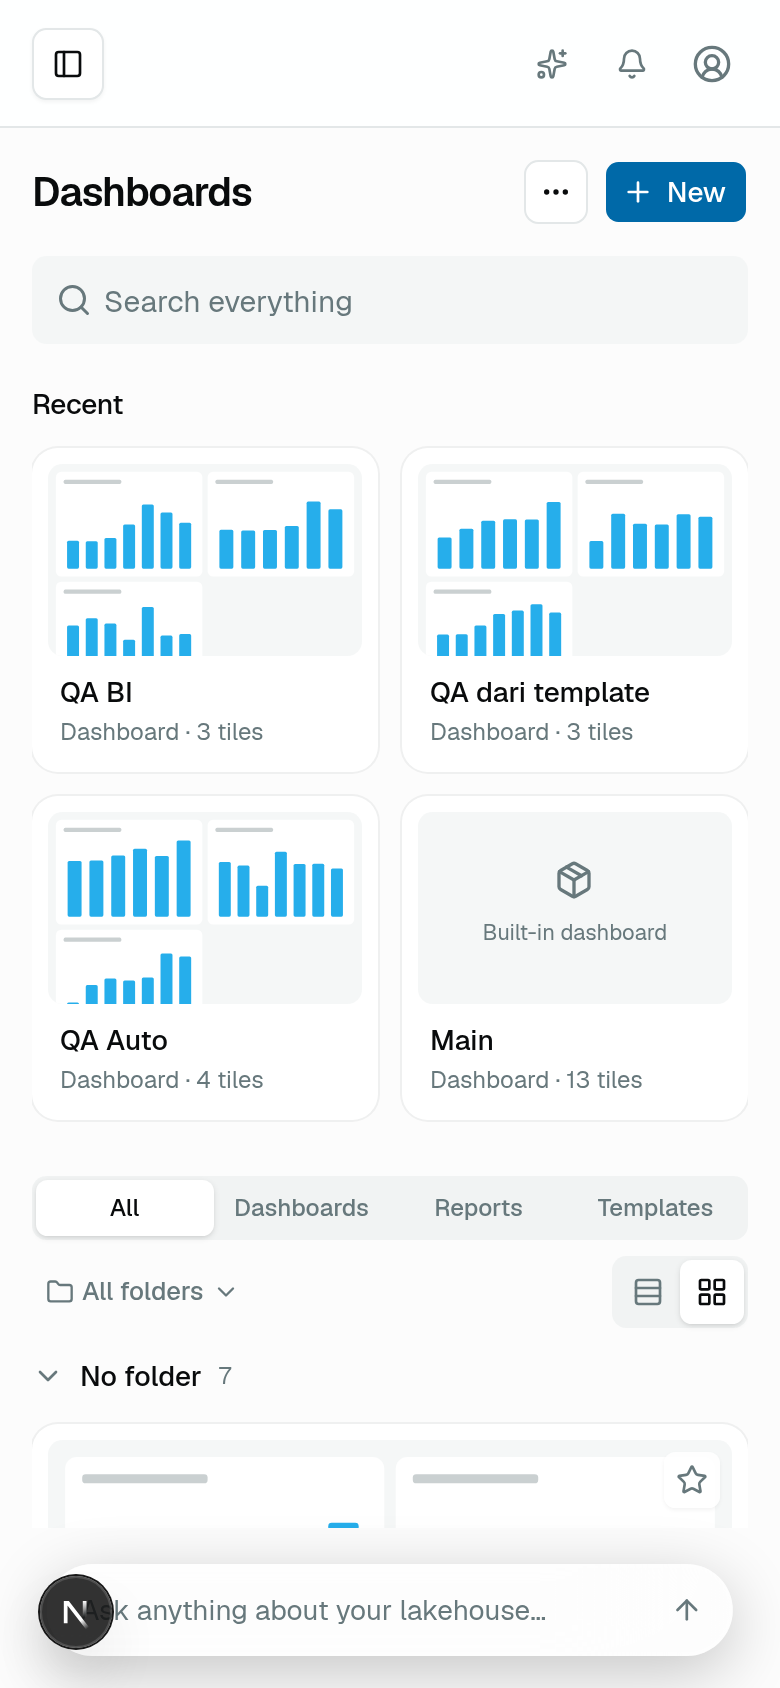
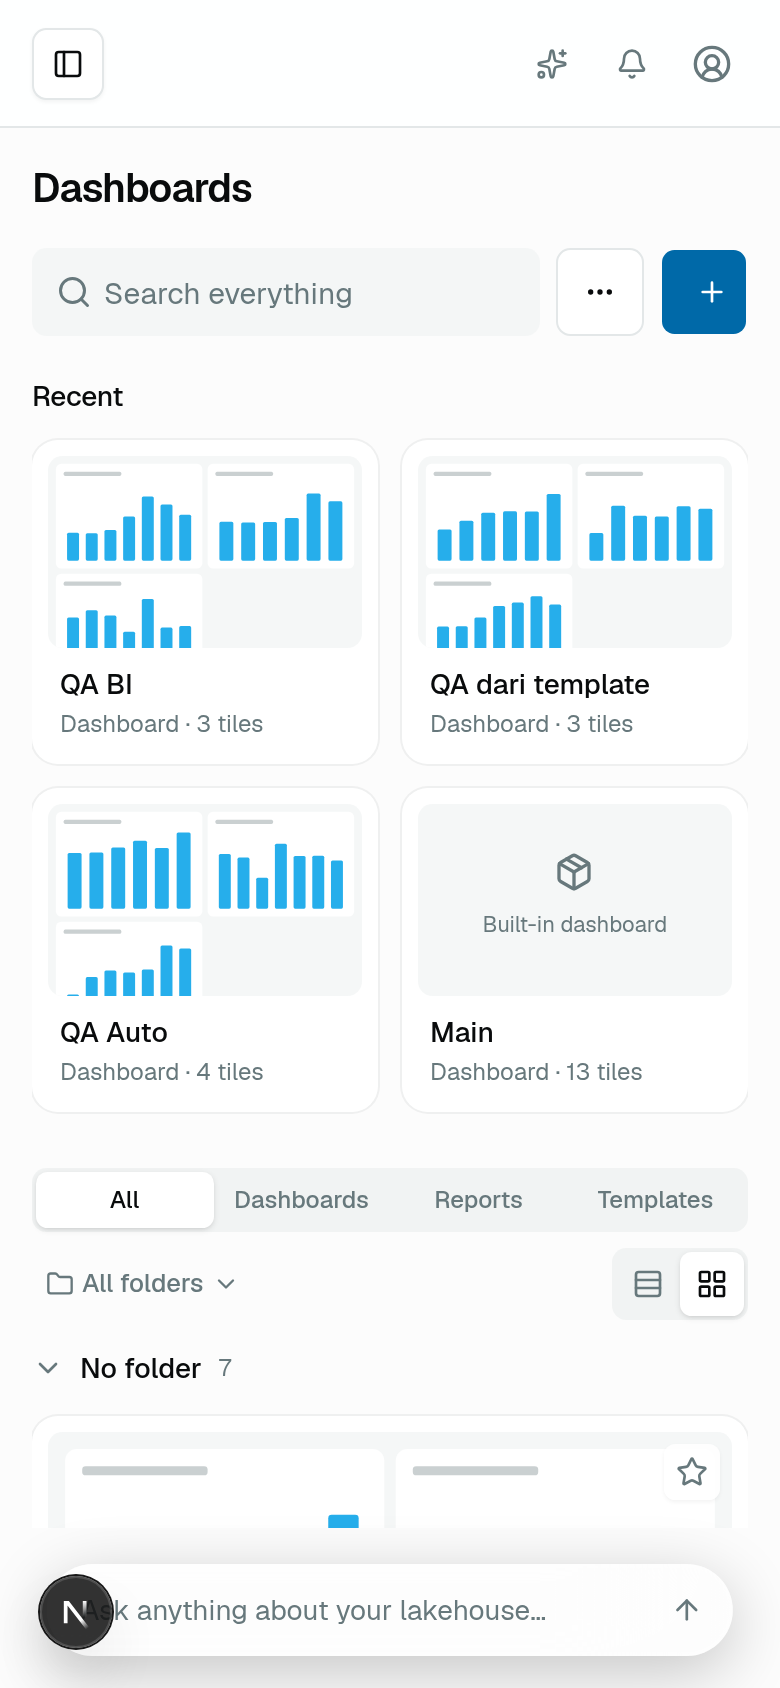
fix(dashboards): BI-59 review round 1: search and page actions on one row; frame reads the shell's reserve
BI-59 review round 1, SHOULD-FIX 1 (owner QA; DESIGN.md §3 "Pencarian dan
aksi halaman satu baris"): the title stands alone, and under it one row
holds the search (the remaining width), the Table / Gallery switch, the
page ⋯ and + New, all 44 px tall and centred. On a phone the row is the
search, the ⋯ and an icon-only New ("New" kept for screen readers), and
the view switch stays in the filters row. Measured in Chrome: at 1366x900
the search, the switch, the ⋯ and New all sit at top 132 px, 44 px tall;
at 390x844 at 124 px.

BI-59 review round 1, SHOULD-FIX 2: PageFrame reads the app shell's
`--content-bottom` (the token BI-58 adds in c4d87211 / 50295df6), with
today's reserve as the fallback, so the page follows the composer's real
room once both merge. No BI-58 code copied. The 12 Table and Gallery
screenshots are retaken.

Checks: bun test dashboard-list-page, template-pages, library-item-menu
(37 pass) under the 3 GB cap; eslint on src/features/dashboards; bun run
typecheck.

diff --git a/src/features/dashboards/dashboard-list-page.tsx b/src/features/dashboards/dashboard-list-page.tsx
@@ -105,13 +105,18 @@ function useViewMode(): readonly [ViewMode, (next: ViewMode) => void] {
 }
 
 /** The Table / Gallery switch: two icon buttons with `aria-pressed`, in one soft group like the type filter. */
-function ViewSwitch({ value, onChange }: { readonly value: ViewMode; readonly onChange: (next: ViewMode) => void }) {
+function ViewSwitch({ value, onChange, tall }: {
+  readonly value: ViewMode
+  readonly onChange: (next: ViewMode) => void
+  /** In the search row: as tall as the search (BI-59 review round 1, SHOULD-FIX 1). */
+  readonly tall?: boolean
+}) {
   const options = [
     { value: "table" as const, label: "Table view", icon: Rows3 },
     { value: "gallery" as const, label: "Gallery view", icon: LayoutGrid },
   ]
   return (
-    <div role="group" aria-label="View" className="inline-flex rounded-lg bg-muted p-0.5">
+    <div role="group" aria-label="View" className={cn("inline-flex shrink-0 rounded-lg bg-muted p-0.5", tall && "h-11")}>
       {options.map((o) => {
         const on = o.value === value
         return (
@@ -123,7 +128,8 @@ function ViewSwitch({ value, onChange }: { readonly value: ViewMode; readonly on
             title={o.label}
             onClick={() => onChange(o.value)}
             className={cn(
-              "grid size-8 place-items-center rounded-md",
+              "grid place-items-center rounded-md",
+              tall ? "size-10" : "size-8",
               EASE, FOCUS,
               on ? "bg-background text-foreground shadow-sm dark:bg-input/40" : "text-muted-foreground hover:text-foreground",
             )}
@@ -452,29 +458,35 @@ export function DashboardListPage() {
 
   return (
     <PageFrame>
+      {/*
+        BI-59 review round 1, SHOULD-FIX 1 (owner QA; DESIGN.md §3 "Pencarian dan aksi halaman
+        satu baris"): the title alone, then one row with the search taking the width on the left
+        and the page's actions on the right, all 44 px tall and centred. From sm the Table /
+        Gallery switch joins them; on a phone it stays in the filters row so the search keeps
+        its room, and New is the plus alone.
+      */}
       <header className="grid shrink-0 gap-4">
-        <div className="flex items-center justify-between gap-3">
-          <h1 className="text-xl font-semibold tracking-tight">Dashboards</h1>
-          <div className="flex items-center gap-2">
-            <PageMenu
-              onFolders={canFile ? () => setFoldersOpen(true) : undefined}
-              onTrash={canFile ? () => setTrashOpen(true) : undefined}
+        <h1 className="text-xl font-semibold tracking-tight">Dashboards</h1>
+        <div className="flex items-center gap-2">
+          <SearchField value={query} onChange={setQuery} className="min-w-0 flex-1" />
+          {phone ? null : <ViewSwitch value={view} onChange={setView} tall />}
+          <PageMenu
+            onFolders={canFile ? () => setFoldersOpen(true) : undefined}
+            onTrash={canFile ? () => setTrashOpen(true) : undefined}
+          />
+          {/* BI-18 part C review fix (SHOULD-FIX) R27: without `dashboard:write` there is no New. */}
+          {canFile ? (
+            <NewMenu
+              templates={templates}
+              renderPicture={(t) => (
+                <ItemPicture item={templateItem(t)} charts={null} size="sm" className="h-10 w-16 shrink-0" />
+              )}
+              onDashboard={() => setCreateOpen(true)}
+              onTemplate={setUsing}
+              onImport={() => setImportOpen(true)}
             />
-            {/* BI-18 part C review fix (SHOULD-FIX) R27: without `dashboard:write` there is no New. */}
-            {canFile ? (
-              <NewMenu
-                templates={templates}
-                renderPicture={(t) => (
-                  <ItemPicture item={templateItem(t)} charts={null} size="sm" className="h-10 w-16 shrink-0" />
-                )}
-                onDashboard={() => setCreateOpen(true)}
-                onTemplate={setUsing}
-                onImport={() => setImportOpen(true)}
-              />
-            ) : null}
-          </div>
+          ) : null}
         </div>
-        <SearchField value={query} onChange={setQuery} className="max-w-2xl" />
       </header>
 
       <ScrollRegion className="-mx-2 mt-5 px-2 pb-6">
@@ -506,7 +518,7 @@ export function DashboardListPage() {
                       choices={folderChoicesList}
                       noFolderCount={items.filter((i) => i.kind !== "template" && !i.folderId).length}
                     />
-                    <ViewSwitch value={view} onChange={setView} />
+                    {phone ? <ViewSwitch value={view} onChange={setView} /> : null}
                   </div>
                 </>
               )}

diff --git a/src/features/dashboards/library-parts.tsx b/src/features/dashboards/library-parts.tsx
@@ -35,16 +35,24 @@ export function useHasDock(): boolean {
 /**
  * The page as a frame that ends above the assistant bar, so the bar never
  * covers a row or a card (spec `BI-59` T5): the list scrolls inside the frame
- * instead of under the bar.
+ * instead of under the bar. Its height is the viewport less the navbar (4rem),
+ * the shell's top padding (1, 1.25 or 1.5rem) and the room kept under the
+ * content.
  *
- * With the bar, the height leaves the navbar (4rem), the shell's top padding
- * (1, 1.25 or 1.5rem) and 5rem for the bar, and the negative bottom margin
- * gives back the bottom padding the app frame adds for the bar (`pb-24` /
- * `lg:pb-28`), so the window itself does not scroll. Without the bar the
- * frame is the viewport less the navbar and the shell's own padding.
+ * BI-59 review round 1, SHOULD-FIX 2: that room is read from the app shell's
+ * `--content-bottom`, the token BI-58 adds (`c4d87211`, `50295df6`: the
+ * composer's measured height plus its offset and gap while it shows, 1.5rem
+ * when it hides). Until that lands the variable is absent and the fallbacks
+ * are today's shell: with the bar, a 5rem dock spacer after `main` and a
+ * `pb-24` / `lg:pb-28` bottom padding that the negative margin gives back;
+ * without it, the shell's own bottom padding. With the token the frame's height
+ * alone puts its end where the shell says; the margin there works out at
+ * `--content-bottom - 6rem` (or `- 7rem`) against a `main` that pads by
+ * `--content-bottom`, which only shortens `main`'s box below the frame and
+ * moves nothing on screen. It goes when this branch has the token.
  *
  * Below `lg` the whole frame scrolls, header included, so a phone keeps the
- * room for the rows; from `lg` only the list scrolls (`ScrollRegion`).
+ * room for the rows; from `lg` only the list does (`ScrollRegion`).
  */
 export function PageFrame({ children, className }: { readonly children: React.ReactNode; readonly className?: string }) {
   const dock = useHasDock()
@@ -53,8 +61,11 @@ export function PageFrame({ children, className }: { readonly children: React.Re
       className={cn(
         "flex min-h-0 flex-col overflow-y-auto lg:overflow-hidden",
         dock
-          ? "-mb-24 h-[calc(100dvh-10rem)] sm:h-[calc(100dvh-10.25rem)] lg:-mb-28 lg:h-[calc(100dvh-10.5rem)]"
-          : "h-[calc(100dvh-6rem)] sm:h-[calc(100dvh-6.5rem)] lg:h-[calc(100dvh-7rem)]",
+          ? cn(
+              "h-[calc(100dvh-5rem-var(--content-bottom,5rem))] sm:h-[calc(100dvh-5.25rem-var(--content-bottom,5rem))] lg:h-[calc(100dvh-5.5rem-var(--content-bottom,5rem))]",
+              "mb-[calc(var(--content-bottom,0px)-6rem)] lg:mb-[calc(var(--content-bottom,0px)-7rem)]",
+            )
+          : "h-[calc(100dvh-5rem-var(--content-bottom,1rem))] sm:h-[calc(100dvh-5.25rem-var(--content-bottom,1.25rem))] lg:h-[calc(100dvh-5.5rem-var(--content-bottom,1.5rem))]",
         className,
       )}
     >

diff --git a/src/features/dashboards/dashboard-list-page.test.tsx b/src/features/dashboards/dashboard-list-page.test.tsx
@@ -94,7 +94,8 @@ describe("the Dashboards page header (BI-59 T1)", () => {
     const head = await header()
     await waitFor(() => expect(within(head).getByRole("button", { name: "New" })).toBeTruthy())
     const buttons = within(head).getAllByRole("button").map((b) => b.getAttribute("aria-label") ?? b.textContent?.trim())
-    expect(buttons.sort()).toEqual(["More actions", "New"])
+    // BI-59 review round 1, SHOULD-FIX 1: the Table / Gallery switch joined the search row.
+    expect(buttons.sort()).toEqual(["Gallery view", "More actions", "New", "Table view"])
     expect(within(head).getByRole("searchbox")).toBeTruthy()
     // The old toolbar's controls are gone from the page.
     for (const gone of ["Metrics", "Folders", "Trash", "Import…", "New dashboard", "Refresh"]) {
@@ -480,5 +481,23 @@ describe("at phone width (BI-59 T6)", () => {
       if (own) Object.defineProperty(window, "innerWidth", own)
       else delete (window as { innerWidth?: number }).innerWidth
     }
+  })
+})
+
+describe("the search row (BI-59 review round 1, SHOULD-FIX 1)", () => {
+  it("puts the search, the view switch, the ⋯ and New on one row under the title at 1366", async () => {
+    serve(["dashboard:read", "dashboard:write"])
+    renderPage()
+    const head = await header()
+    const search = within(head).getByRole("searchbox")
+    const row = search.closest("header > div")
+    if (!row) throw new Error("no row")
+    for (const name of ["New", "More actions", "Gallery view"]) {
+      await waitFor(() => expect(row.contains(within(head).getByRole("button", { name }))).toBe(true))
+    }
+    // The title is above, alone.
+    const title = within(head).getByRole("heading", { name: "Dashboards" })
+    expect(row.contains(title)).toBe(false)
+    expect(title.parentElement).toBe(head)
   })
 })

diff --git a/src/features/dashboards/library-menus.tsx b/src/features/dashboards/library-menus.tsx
@@ -51,8 +51,10 @@ export function NewMenu({
 }) {
   return (
     <DropdownMenu>
-      <DropdownMenuTrigger render={<Button className="text-white" />}>
-        <Plus data-icon="inline-start" /> New
+      {/* BI-59 review round 1, SHOULD-FIX 1: as tall as the search beside it (h-11); on a phone the
+          word is for screen readers only and the button is the plus alone, so the row still fits. */}
+      <DropdownMenuTrigger render={<Button className="h-11 text-white max-sm:w-11 max-sm:px-0 sm:px-4" />}>
+        <Plus data-icon="inline-start" className="max-sm:mx-auto" /> <span className="max-sm:sr-only">New</span>
       </DropdownMenuTrigger>
       <DropdownMenuContent align="end" className="w-72">
         <DropdownMenuItem className="items-start py-2" onClick={onDashboard}>
@@ -123,7 +125,8 @@ export function PageMenu({
 }) {
   return (
     <DropdownMenu>
-      <DropdownMenuTrigger render={<Button variant="outline" size="icon" aria-label="More actions" />}>
+      {/* BI-59 review round 1, SHOULD-FIX 1: the height of the search beside it. */}
+      <DropdownMenuTrigger render={<Button variant="outline" size="icon" aria-label="More actions" className="size-11" />}>
         <MoreHorizontal />
       </DropdownMenuTrigger>
       <DropdownMenuContent align="end" className="w-56">

diff --git a/docs/superpowers/plans/2026-11-14-bi-59-dashboards-page.md b/docs/superpowers/plans/2026-11-14-bi-59-dashboards-page.md
@@ -189,3 +189,45 @@
    - Its height does hard-code the app frame's current bottom reserve: `pb-24` / `lg:pb-28`, 5rem for the bar.
    - When BI-58 merges, `PageFrame` (`library-parts.tsx`) should read the shared reserve token instead.
 
+
+### Handoff, BI-59 review round 1 (developer, 2026-11-14)
+
+**SHOULD-FIX 1: search and page actions on one row** (owner QA; DESIGN.md §3 "Pencarian dan aksi halaman satu baris").
+
+- **Layout.**
+  - The "Dashboards" title sits alone on its row.
+  - Under it, one row: the search takes the remaining width, then the Table / Gallery switch, the page ⋯ and **+ New**, all 44 px tall and vertically centred.
+  - The view switch moved there from the filters row, because the rule names it among the page actions.
+- **Phone: one row, the cleaner of the two options.**
+  - The row holds the search, the ⋯ and an icon-only New. "New" stays as screen-reader text.
+  - The view switch stays in the filters row, so the search keeps its room.
+- **Measured in Chrome over CDP, light theme, Table view:**
+
+  | Viewport | Title (top) | Search, ⋯ and New (top / height) | View switch (top / height) |
+  | --- | --- | --- | --- |
+  | 1366x900 | 88 | 132 / 44 | 132 / 44 |
+  | 390x844 | 80 | 124 / 44 | not on this row |
+
+- **Tests.** happy-dom has no layout, so the unit test checks the DOM: the search, New, ⋯ and the view switch share one row element, and the title is above it, alone. The 1-px `top` check comes from the browser measurements above.
+
+**SHOULD-FIX 2: the frame follows the shell's reserve.**
+
+- `PageFrame` (`library-parts.tsx`) now reads `--content-bottom`, the token BI-58 adds (`c4d87211`, `50295df6`).
+- Its fallbacks are today's values:
+  - **With the dock:** a 5rem reserve, plus the negative margin that gives back `pb-24` / `lg:pb-28`.
+  - **Without the dock:** the shell's own bottom padding.
+- Heights are unchanged on this branch. Once BI-58 merges, the frame ends where `--content-bottom` says.
+- With the token present, the margin works out at `--content-bottom - 6rem`. That only shortens `main` below the frame and moves nothing on screen. It can go once this branch has the token.
+- No BI-58 code was copied.
+
+**Checks** (each under `systemd-run --user --scope -p MemoryMax=3G -p MemorySwapMax=0 nice -n 15`, one at a time):
+
+- `bun test` on three files (`dashboard-list-page.test.tsx`, `template-pages.test.tsx`, `library-item-menu.test.tsx`): 37 pass, 0 fail.
+- `bun --bun eslint src/features/dashboards/`: clean.
+- `bun run typecheck`: clean.
+- **Not verified:** the full `bun run lint` and `bun run test`. Both are left to CI.
+
+**Screenshots.** The 12 Table and Gallery shots in `docs/plans/bi-59-screens/` were retaken with this header. A brief dev server on 28622 and one headless Chrome were stopped by PID afterwards. 28620 was not touched.
+
+- No horizontal scroll at any size.
+- The five `state-*.png` shots predate this round and still show the old header.
